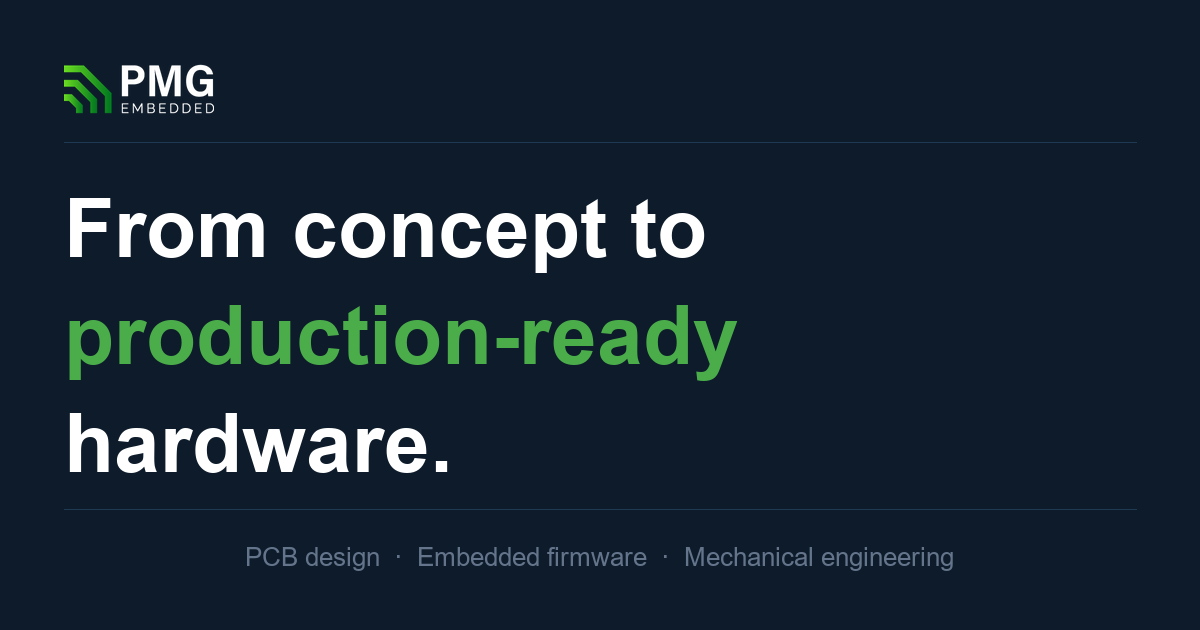
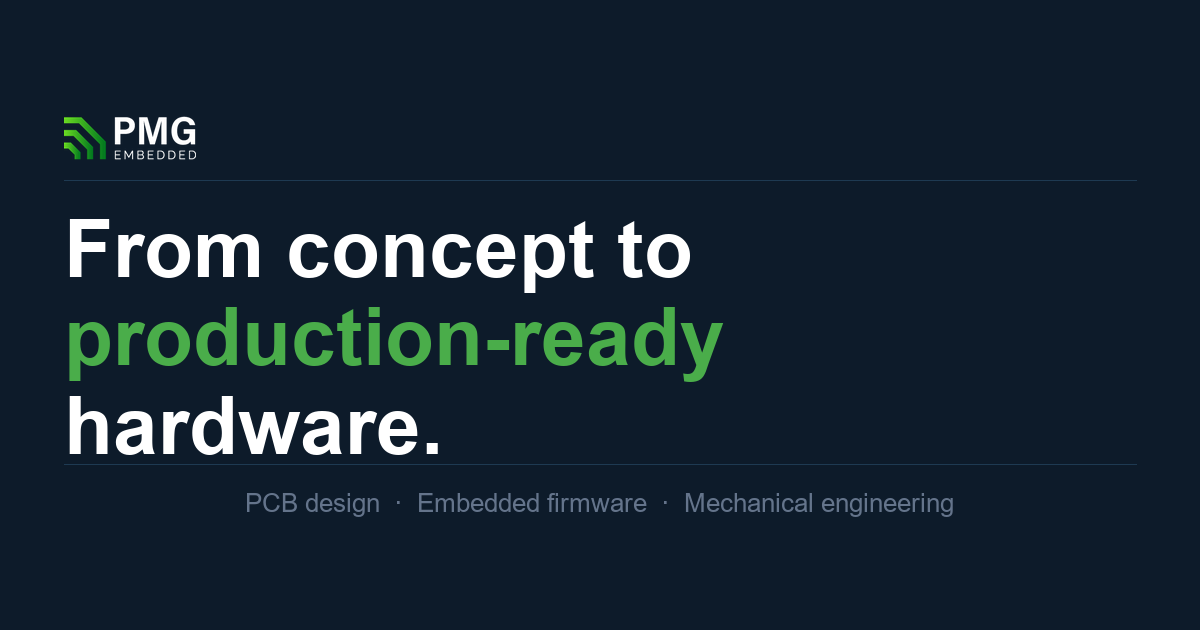
fix: sync OG tags, add image dimensions, update OG image

diff --git a/index.html b/index.html
@@ -4,15 +4,19 @@
   <meta charset="UTF-8">
   <meta name="viewport" content="width=device-width, initial-scale=1.0">
   <title>PMG Embedded | Embedded Systems &amp; Hardware Engineering</title>
-  <meta name="description" content="From prototype to production-ready hardware. PCB design, embedded firmware, and mechanical engineering under one roof.">
+  <meta name="description" content="PCB design, embedded firmware, and mechanical engineering — one team, one roof. We take hardware from first prototype to production-ready product. Based in Novi Sad, Serbia.">
+  <meta name="robots" content="index, follow">
+  <link rel="canonical" href="https://pmgembedded.com/">
   <meta property="og:title" content="PMG Embedded | Embedded Systems &amp; Hardware Engineering">
-  <meta property="og:description" content="From prototype to production-ready hardware. PCB design, embedded firmware, and mechanical engineering under one roof.">
-  <meta property="og:url" content="https://pmgembedded.com">
+  <meta property="og:description" content="PCB design, embedded firmware, and mechanical engineering — one team, one roof. We take hardware from first prototype to production-ready product. Based in Novi Sad, Serbia.">
+  <meta property="og:url" content="https://pmgembedded.com/">
   <meta property="og:image" content="https://pmgembedded.com/images/og-image.png">
+  <meta property="og:image:width" content="1200">
+  <meta property="og:image:height" content="630">
   <meta property="og:type" content="website">
   <meta name="twitter:card" content="summary_large_image">
   <meta name="twitter:title" content="PMG Embedded | Embedded Systems &amp; Hardware Engineering">
-  <meta name="twitter:description" content="From prototype to production-ready hardware. PCB design, embedded firmware, and mechanical engineering under one roof.">
+  <meta name="twitter:description" content="PCB design, embedded firmware, and mechanical engineering — one team, one roof. We take hardware from first prototype to production-ready product. Based in Novi Sad, Serbia.">
   <meta name="twitter:image" content="https://pmgembedded.com/images/og-image.png">
   <link rel="preconnect" href="https://fonts.googleapis.com">
   <link href="https://fonts.googleapis.com/css2?family=Inter:wght@300;400;500;600;700&display=swap" rel="stylesheet">
@@ -26,6 +30,48 @@
     function gtag(){dataLayer.push(arguments);}
     gtag('js', new Date());
     gtag('config', 'G-6T6LL1T3TH');
+  </script>
+  <script type="application/ld+json">
+  {
+    "@context": "https://schema.org",
+    "@graph": [
+      {
+        "@type": "Organization",
+        "name": "PMG Embedded",
+        "url": "https://pmgembedded.com",
+        "logo": "https://pmgembedded.com/images/logo-white.png",
+        "image": "https://pmgembedded.com/images/og-image.png",
+        "description": "From prototype to production-ready hardware. PCB design, embedded firmware, and mechanical engineering under one roof.",
+        "foundingDate": "2020",
+        "address": {
+          "@type": "PostalAddress",
+          "addressLocality": "Novi Sad",
+          "addressCountry": "RS"
+        },
+        "contactPoint": {
+          "@type": "ContactPoint",
+          "email": "info@pmgembedded.com",
+          "contactType": "sales"
+        },
+        "areaServed": "Worldwide",
+        "hasOfferCatalog": {
+          "@type": "OfferCatalog",
+          "name": "Engineering Services",
+          "itemListElement": [
+            { "@type": "Offer", "itemOffered": { "@type": "Service", "name": "PCB Design", "description": "Schematic capture, multi-layer PCB layout, signal integrity analysis, and DFM review." } },
+            { "@type": "Offer", "itemOffered": { "@type": "Service", "name": "Embedded Firmware Development", "description": "Bare-metal and RTOS firmware for STM32, NXP, TI. BLE, NB-IoT, LoRaWAN, OTA updates." } },
+            { "@type": "Offer", "itemOffered": { "@type": "Service", "name": "Mechanical & Mechatronics Engineering", "description": "3D CAD, DFM, motion systems, robotics integration, and warehouse automation." } },
+            { "@type": "Offer", "itemOffered": { "@type": "Service", "name": "Full Product Development", "description": "End-to-end hardware development from architecture and prototyping to production handoff." } }
+          ]
+        }
+      },
+      {
+        "@type": "WebSite",
+        "url": "https://pmgembedded.com",
+        "name": "PMG Embedded"
+      }
+    ]
+  }
   </script>
 </head>
 <body>

diff --git a/generate_og.py b/generate_og.py
@@ -7,18 +7,6 @@ PAD = 64
 img = Image.new("RGB", (W, H), "#0d1b2a")
 draw = ImageDraw.Draw(img)
 
-# ── Logo ──────────────────────────────────────────────────────────────────────
-logo_src = Image.open("images/logo-white.png").convert("RGBA")
-logo_h = 50
-ratio = logo_h / logo_src.height
-logo_w = int(logo_src.width * ratio)
-logo = logo_src.resize((logo_w, logo_h), Image.LANCZOS)
-img.paste(logo, (PAD, PAD), logo)
-
-# ── Line under logo ───────────────────────────────────────────────────────────
-line_y = PAD + logo_h + 28
-draw.line([(PAD, line_y), (W - PAD, line_y)], fill="#1e3a52", width=1)
-
 # ── Fonts ─────────────────────────────────────────────────────────────────────
 def load_font(size, bold=False):
     candidates = [
@@ -31,34 +19,66 @@ def load_font(size, bold=False):
             return ImageFont.truetype(path, size)
     return ImageFont.load_default()
 
-font_tag  = load_font(82, bold=True)
-font_sub  = load_font(26, bold=False)
+font_tag = load_font(80, bold=True)
+font_sub = load_font(26, bold=False)
+
+# ── Measure tagline block height ───────────────────────────────────────────────
+lines = [
+    ("From concept to",  "#ffffff"),
+    ("production-ready", "#4aad4a"),
+    ("hardware.",        "#ffffff"),
+]
+line_gap = 14
+
+dummy = Image.new("RGB", (1, 1))
+dd = ImageDraw.Draw(dummy)
+line_heights = []
+for text, _ in lines:
+    bb = dd.textbbox((0, 0), text, font=font_tag)
+    line_heights.append(bb[3] - bb[1])
+
+logo_h = 44
+logo_gap = 20       # gap between logo and line
+line_thick = 1
+line_gap_v = 24     # gap between line and tagline
+tagline_h = sum(line_heights) + line_gap * (len(lines) - 1)
+gap_after_tag = 24
+footer_bb = dd.textbbox((0, 0), "PCB design", font=font_sub)
+footer_h = footer_bb[3] - footer_bb[1]
+
+# total block height
+total_h = logo_h + logo_gap + line_thick + line_gap_v + tagline_h + gap_after_tag + line_thick + 24 + footer_h
+
+# center the whole block vertically
+block_top = (H - total_h) // 2
+
+# ── Logo ──────────────────────────────────────────────────────────────────────
+logo_src = Image.open("images/logo-white.png").convert("RGBA")
+ratio = logo_h / logo_src.height
+logo_w = int(logo_src.width * ratio)
+logo = logo_src.resize((logo_w, logo_h), Image.LANCZOS)
+img.paste(logo, (PAD, block_top), logo)
+
+# ── Line under logo ───────────────────────────────────────────────────────────
+line1_y = block_top + logo_h + logo_gap
+draw.line([(PAD, line1_y), (W - PAD, line1_y)], fill="#1e3a52", width=line_thick)
 
 # ── Tagline ───────────────────────────────────────────────────────────────────
-lines = [
-    ("From concept to",    "#ffffff"),
-    ("production-ready",   "#4aad4a"),
-    ("hardware.",          "#ffffff"),
-]
-
-line_gap = 16
-tag_y = line_y + 40
-
-for text, color in lines:
+tag_y = line1_y + line_gap_v
+for (text, color), lh in zip(lines, line_heights):
     draw.text((PAD, tag_y), text, font=font_tag, fill=color)
-    bbox = draw.textbbox((PAD, tag_y), text, font=font_tag)
-    tag_y = bbox[3] + line_gap
+    tag_y += lh + line_gap
 
 # ── Line under tagline ────────────────────────────────────────────────────────
-line2_y = tag_y + 20
-draw.line([(PAD, line2_y), (W - PAD, line2_y)], fill="#1e3a52", width=1)
+line2_y = tag_y - line_gap + gap_after_tag
+draw.line([(PAD, line2_y), (W - PAD, line2_y)], fill="#1e3a52", width=line_thick)
 
 # ── Footer text ───────────────────────────────────────────────────────────────
 footer = "PCB design  ·  Embedded firmware  ·  Mechanical engineering"
-footer_bbox = draw.textbbox((0, 0), footer, font=font_sub)
+footer_bbox = dd.textbbox((0, 0), footer, font=font_sub)
 footer_w = footer_bbox[2] - footer_bbox[0]
 footer_x = (W - footer_w) // 2
-footer_y = H - PAD - (footer_bbox[3] - footer_bbox[1])
+footer_y = line2_y + 24
 draw.text((footer_x, footer_y), footer, font=font_sub, fill="#64748b")
 
 # ── Save ──────────────────────────────────────────────────────────────────────
